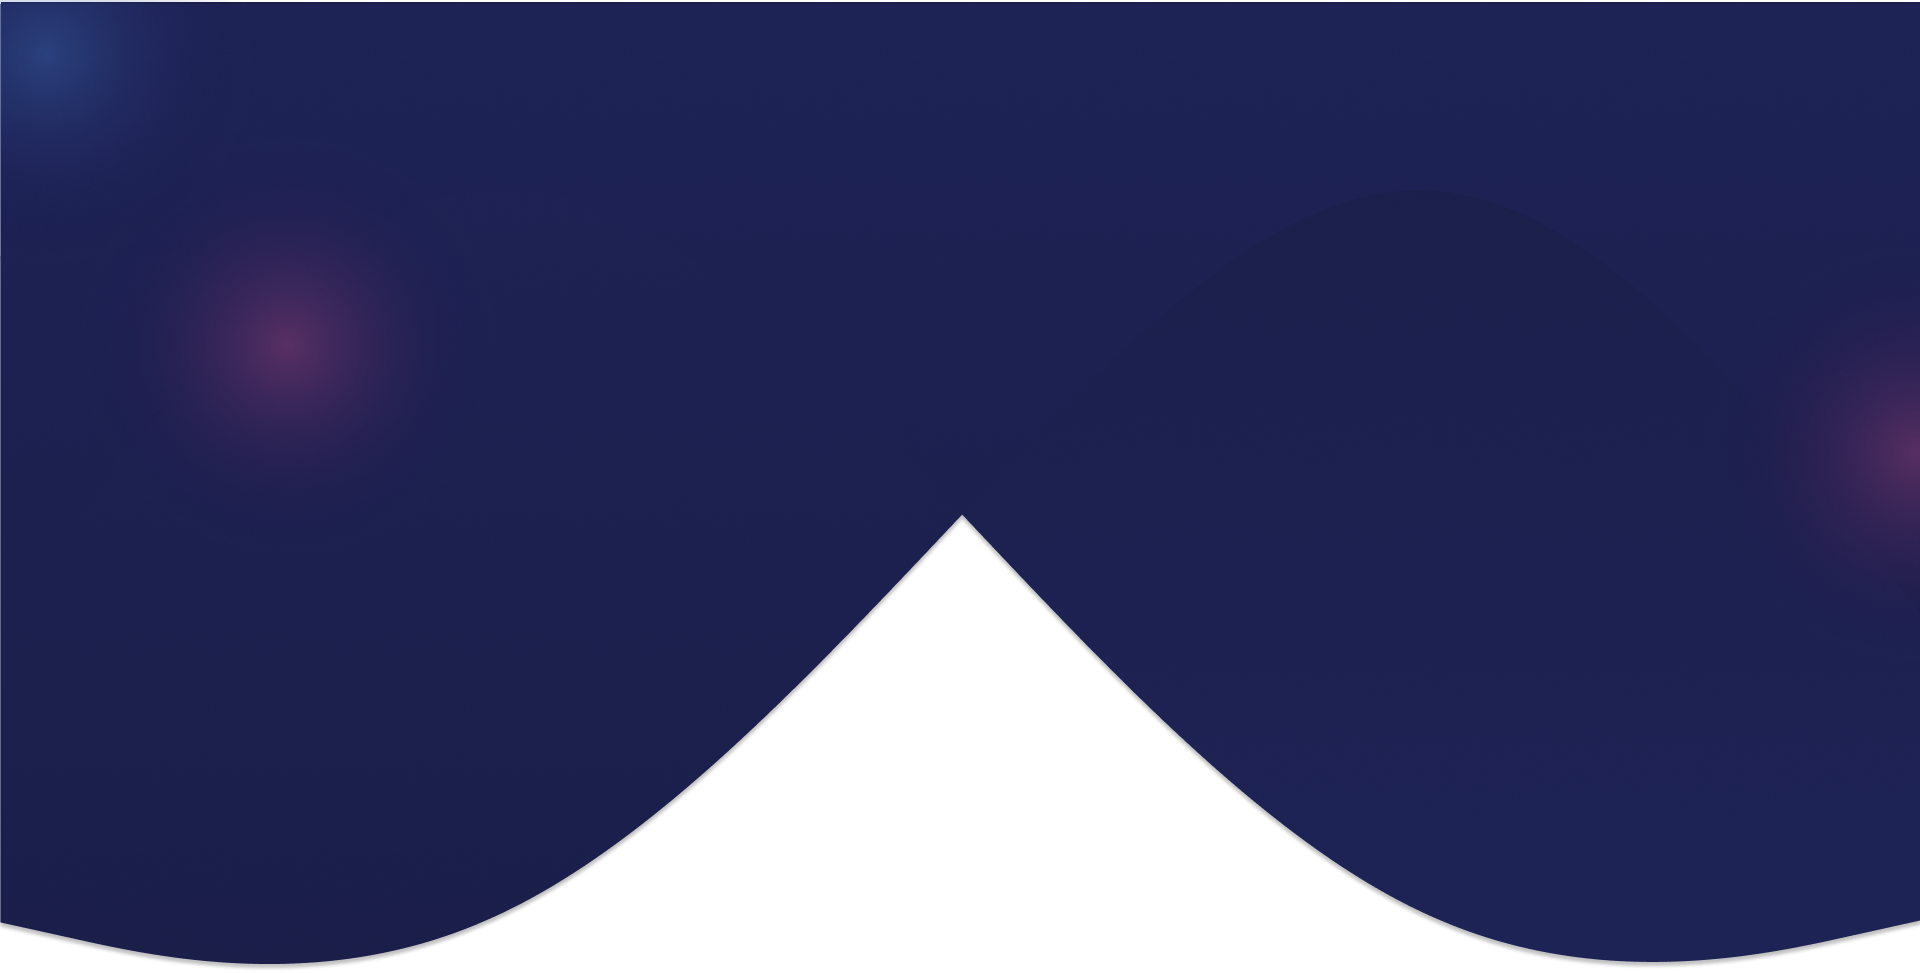
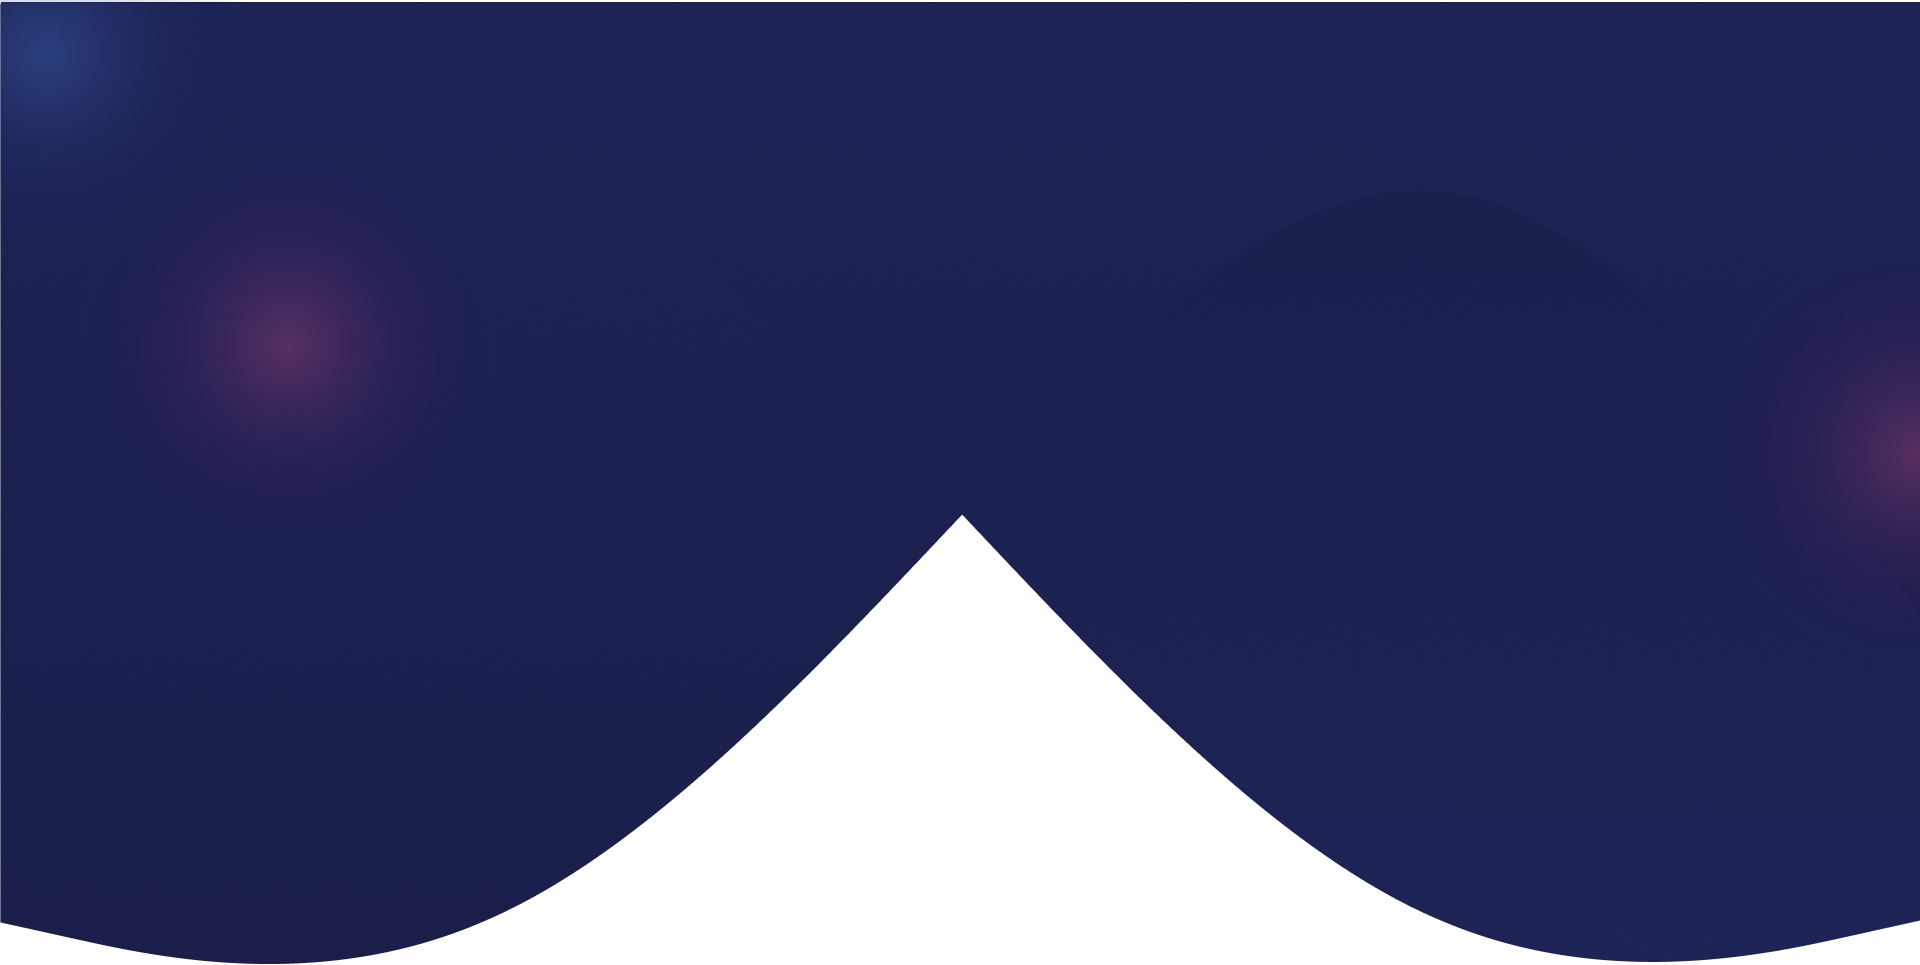
Explore NFT section added

diff --git a/src/components/Navbar/Navbar.jsx b/src/components/Navbar/Navbar.jsx
@@ -7,7 +7,17 @@ import { useState } from "react"
 const Navbar = () => {
 
     const [menu, setMenu] = useState(false)
+    const [navBg, setNavBg] = useState(false)
+    console.log(navBg)
+    const changeBackground = () => {
+        if (window.scrollY >= 10) {
+            setNavBg(true)
+        } else {
+            setNavBg(false)
+        }
+    };
 
+    window.addEventListener('scroll', changeBackground);
     const navItems = [
         { id: 1, pathName: '#', name: 'Home' },
         { id: 2, pathName: '#', name: 'Explore', dropDown: true, dropDownItems: ['Item1', 'Item2'] },
@@ -18,59 +28,61 @@ const Navbar = () => {
     ]
 
     return (
-        <nav className="container mx-auto p-6 ">
+        <section className='sticky top-0'>
+            <nav className={` ${navBg ? 'bg-lightBlue' : 'bg-transparent'} p-6`}>
+                <div className="container mx-auto">
+                    <div className="flex items-center justify-between">
 
-            <div className="flex items-center justify-between">
+                        {/* LOGO */}
+                        <div>
+                            <Logo />
+                        </div>
 
-                {/* LOGO */}
-                <div>
-                    <Logo />
+                        {/* NAV ITEMS */}
+                        <div className="hidden lg:flex items-center space-x-8">
+                            {
+                                navItems.map(navItem => <NavItem key={navItem.id} navItem={navItem} />)
+                            }
+                        </div>
+
+                        {/* NAV BUTTONS */}
+                        <div className=" hidden lg:block space-x-2 ">
+
+                            <Button btnText='Login' btnType='outline' />
+                            <Button btnText='Singup' btnType='fill' />
+
+                        </div>
+
+                        {/* HAMBURGER MENU */}
+
+                        <div className="hover:cursor-pointer lg:hidden w-6 h-6" onClick={() => setMenu(!menu)}>
+                            {menu ? <svg xmlns="http://www.w3.org/2000/svg" className="h-6 w-6 text-white" fill="none" viewBox="0 0 24 24" stroke="currentColor" strokeWidth={2}>
+                                <path strokeLinecap="round" strokeLinejoin="round" d="M6 18L18 6M6 6l12 12" />
+                            </svg> : <CgMenu className="w-6 h-6 text-white" />}
+                        </div>
+
+                    </div>
+
+                    {/* MOBILE MENU */}
+
+                    {/* EVENT LISTENER BLOCK FOR CLOSE MENU */}
+                    <div onClick={() => setMenu(false)} className={`absolute lg:hidden ${menu ? 'block' : 'hidden'} top-0 left-0 w-screen h-screen bg-transparent`}>
+                    </div>
+
+                    <div onClick={() => setMenu(false)} className={`absolute lg:hidden ${menu ? 'right-0' : ' -right-[300px]'} top-20 bg-lightBlue p-8 space-y-6 max-w-xs h-[inherit] duration-300 z-30`}>
+                        {
+                            navItems.map(navItem => <NavItem key={navItem.id} navItem={navItem} />)
+                        }
+                        <div className="space-x-2 ">
+
+                            <Button btnText='Login' btnType='outline' />
+                            <Button btnText='Singup' btnType='fill' />
+
+                        </div>
+                    </div>
                 </div>
-
-                {/* NAV ITEMS */}
-                <div className="hidden lg:flex items-center space-x-8">
-                    {
-                        navItems.map(navItem => <NavItem key={navItem.id} navItem={navItem} />)
-                    }
-                </div>
-
-                {/* NAV BUTTONS */}
-                <div className=" hidden lg:block space-x-2 ">
-
-                    <Button btnText='Login' btnType='outline' />
-                    <Button btnText='Singup' btnType='fill' />
-
-                </div>
-
-                {/* HAMBURGER MENU */}
-
-                <div className="hover:cursor-pointer lg:hidden w-6 h-6" onClick={() => setMenu(!menu)}>
-                    {menu ? <svg xmlns="http://www.w3.org/2000/svg" className="h-6 w-6 text-white" fill="none" viewBox="0 0 24 24" stroke="currentColor" strokeWidth={2}>
-                        <path strokeLinecap="round" strokeLinejoin="round" d="M6 18L18 6M6 6l12 12" />
-                    </svg> : <CgMenu className="w-6 h-6 text-white" />}
-                </div>
-
-            </div>
-
-            {/* MOBILE MENU */}
-
-            {/* EVENT LISTENER BLOCK FOR CLOSE MENU */}
-            <div onClick={() => setMenu(false)} className={`absolute lg:hidden ${menu ? 'block' : 'hidden'} top-0 left-0 w-screen h-screen bg-transparent`}>
-            </div>
-
-            <div onClick={() => setMenu(false)} className={`absolute lg:hidden ${menu ? 'right-0' : ' -right-[300px]'} top-20 bg-lightBlue p-8 space-y-6 max-w-xs h-[inherit] duration-300`}>
-                {
-                    navItems.map(navItem => <NavItem key={navItem.id} navItem={navItem} />)
-                }
-                <div className="space-x-2 ">
-
-                    <Button btnText='Login' btnType='outline' />
-                    <Button btnText='Singup' btnType='fill' />
-
-                </div>
-            </div>
-
-        </nav>
+            </nav>
+        </section>
     )
 }
 

diff --git a/src/components/Hero/Hero.jsx b/src/components/Hero/Hero.jsx
@@ -1,0 +1,35 @@
+import React from 'react'
+import banner from '../../assets/home/banner.png'
+import uploadIcon from '../../assets/icons/upload2.png'
+const Hero = () => {
+    return (
+        <section className='container mx-auto mt-12 lg:mt-[170px] px-4  lg:px-16'>
+            <div className='flex items-center justify-between flex-col-reverse lg:flex-row space-y-10 lg:space-y-0'>
+
+                <div className=' max-w-[615px] text-white text-center md:text-left'>
+                    <h1 className='font-syne font-bold text-[3rem] md:text-[4rem]'> Collect rare digital arts & nft’s today.</h1>
+                    <p className='font-manrope font-normal text-xl md:text-2xl opacity-[0.8]'>Business requests of best or shall it global lorem is assignment. From</p>
+                    <button className='px-4 py-3 rounded bg-pink font-manrope font-bold text-base mt-7 lg:mt-14'>Upload Item <img className='inline-block ml-2' src={uploadIcon} alt="" /></button>
+                    <div className='flex flex-col space-y-5 md:space-y-0 md:flex-row mt-14 font-syne font-bold text-5xl'>
+                        <div>
+                            <h2> 68,686+ </h2>
+                            <p className='font-montserrat font-normal opacity-[0.8] text-2xl'>nft’s Items</p>
+                        </div>
+                        <div className='md:ml-16'>
+                            <h2>6.68 ETH</h2>
+                            <p className='font-montserrat font-normal opacity-[0.8] text-2xl'>Last Bid</p>
+                        </div>
+                    </div>
+                </div>
+
+                <div className=' lg:max-w-[538px] lg:max-h-[591.74px]'>
+
+                    <img className='w-full h-full' src={banner} alt="" />
+
+                </div>
+            </div>
+        </section>
+    )
+}
+
+export default Hero

diff --git a/src/components/ExploreNft/ExploreCart.jsx b/src/components/ExploreNft/ExploreCart.jsx
@@ -1,0 +1,32 @@
+import React from 'react'
+import ethIcon from '../../assets/icons/eth (2).png'
+const ExploreCart = ({ item }) => {
+    return (
+        <div className='p-6 bg-lightBlue rounded-lg '>
+            <div className=' rounded-lg'>
+                <img className='w-full h-full rounded-lg' src={item.img} alt="" />
+            </div>
+
+            <div className='font-manrope text-white space-y-4'>
+                <div className='mt-6 flex items-center justify-between '>
+                    <h3 className='text-xs opacity-[0.8]'><img className='w-3 h-3 inline-block mr-1' src={item.icon1} alt="" /> {item.title}</h3>
+                    <button className='py-2 px-4 rounded-lg border border-pink font-semibold text-xs hover:bg-pink'>Buy  <img className='w-3 h-3 inline-block ml-2' src={item.icon2} alt="" /> </button>
+                </div>
+
+                <div>
+                    <h3 className='font-syne font-bold text-base'>{item.name}</h3>
+                    <p className='mt-2 font-normal text-xs opacity-[0.8]'>{item.author}</p>
+                </div>
+
+                <div className='flex items-center'>
+                    <div className=' w-7 h-7 bg-darkBlue flex items-center justify-center rounded' >
+                        <img className='' src={ethIcon} alt="" />
+                    </div>
+                    <p className='ml-2 font-semibold text-base'> {item.qty}</p>
+                </div>
+            </div>
+        </div>
+    )
+}
+
+export default ExploreCart

diff --git a/src/pages/Home/Home.jsx b/src/pages/Home/Home.jsx
@@ -1,10 +1,23 @@
+import ExploreNft from "../../components/ExploreNft/ExploreNft"
+import Hero from "../../components/Hero/Hero"
 import Navbar from "../../components/Navbar/Navbar"
 
 const Home = () => {
     return (
-        <header className=" h-screen relative overflow-x-hidden">
-            <Navbar />
-        </header>
+        <section>
+            {/* HERO SECTION  */}
+            <header className=" relative overflow-x-hidden bg-bgHero bg-cover bg-left-top ">
+                <Navbar />
+                <Hero />
+            </header>
+
+            {/* EXPLORE SECTION */}
+            <section className="container mx-auto px-4 lg:px-16">
+                <ExploreNft />
+            </section>
+
+
+        </section>
     )
 }
 

diff --git a/src/components/ExploreNftHeader/ExploreNftHeader.jsx b/src/components/ExploreNftHeader/ExploreNftHeader.jsx
@@ -1,0 +1,15 @@
+import React from 'react'
+import circleSpinner from '../../assets/icons/circle.png'
+const ExploreNftHeader = ({ title, btnTxt }) => {
+    return (
+        <div className='flex flex-col md:flex-row items-center justify-between'>
+            <h2 className='font-syne font-bold text-white text-[3rem] text-center md:text-left'>{title} </h2>
+            <button className='py-3 px-6 mt-4 md:mt-0 font-manrope font-semibold text-base text-white bg-lightBlue rounded-lg'>
+                {btnTxt}
+                <img className='w-4 h-4 inline-block ml-2' src={circleSpinner} alt="" />
+            </button>
+        </div>
+    )
+}
+
+export default ExploreNftHeader

diff --git a/src/components/ExploreNft/ExploreNft.jsx b/src/components/ExploreNft/ExploreNft.jsx
@@ -1,0 +1,22 @@
+import React from 'react'
+import explore from '../../fakeDB/json/explore.json'
+import ExploreNftHeader from '../ExploreNftHeader/ExploreNftHeader'
+import ExploreCart from './ExploreCart'
+
+const ExploreNft = () => {
+    return (
+        <div className='mt-[120px]'>
+
+            <ExploreNftHeader title={'Explore NFTs'} btnTxt={'Explore More'} />
+
+
+            <div className='grid md:grid-cols-2 lg:grid-cols-4 gap-6 mt-16'>
+                {
+                    explore.slice(1, 8).map(item => <ExploreCart key={item.id} item={item} />)
+                }
+            </div>
+        </div>
+    )
+}
+
+export default ExploreNft

diff --git a/public/index.html b/public/index.html
@@ -14,7 +14,7 @@
   <link rel="preconnect" href="https://fonts.googleapis.com">
   <link rel="preconnect" href="https://fonts.gstatic.com" crossorigin>
   <link
-    href="https://fonts.googleapis.com/css2?family=Manrope:wght@400;500;600;700;800&family=Syne:wght@400;500;600;700;800&display=swap"
+    href="https://fonts.googleapis.com/css2?family=Manrope:wght@400;500;600;700;800&family=Montserrat:wght@300;400;500;600;700;800&family=Syne:wght@400;500;600;700;800&display=swap"
     rel="stylesheet">
 
   <title>Elibeno</title>

diff --git a/tailwind.config.js b/tailwind.config.js
@@ -17,9 +17,13 @@ module.exports = {
       },
       fontFamily: {
         'manrope': ['Manrope', 'sans-serif'],
-        'syne': ['Syne', 'sans-serif']
+        'syne': ['Syne', 'sans-serif'],
+        'montserrat': ['Montserrat', 'sans-serif']
       },
+      backgroundImage: {
+        'bgHero': "url('/src/assets/background/herobg.png')"
 
+      }
     },
   },
   plugins: [],
